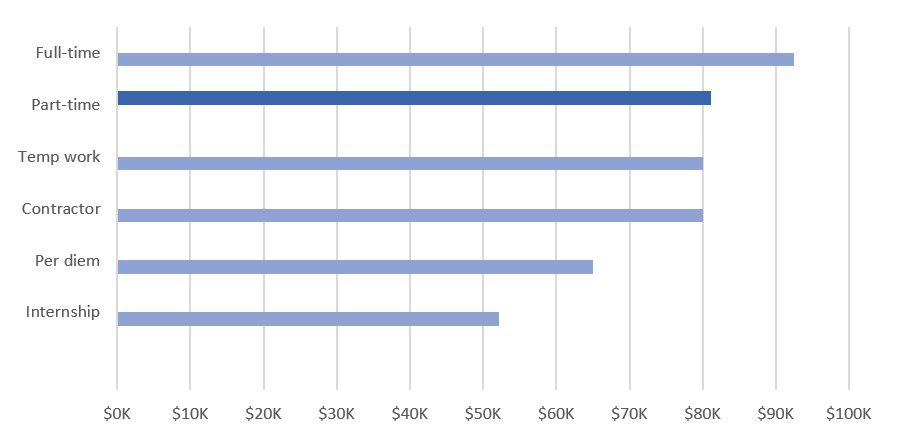
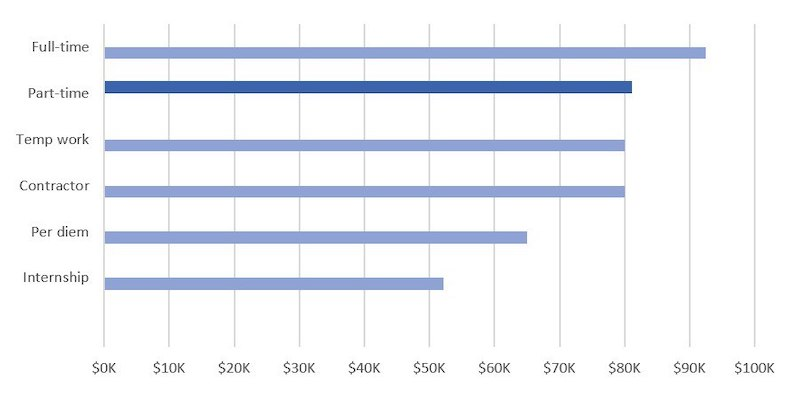
More changes to the picture sizes

diff --git a/Project_1-Dashboard/README.md b/Project_1-Dashboard/README.md
@@ -64,9 +64,7 @@ In order to populate the lists, we used Excel’s data validation feature. The l
 
 The `SORT` function was applied to the `Job Title` list to arrange the values in descending order of median salary. The `Country` list was sorted in ascending (alphabetical) order. The list of job schedule types was normalised, as the original data contained entries such as:
 
-<img src="Resources/Images/Full_list_of_job_types.png" width="300">
-
-<!-- ![The list of job schedule types before normalisation](Resources/Images/Full_list_of_job_types.png) -->
+![The list of job schedule types before normalisation](Resources/Images/Full_list_of_job_types.png)
 
 The following formula was applied to the list to normalise it:
 
